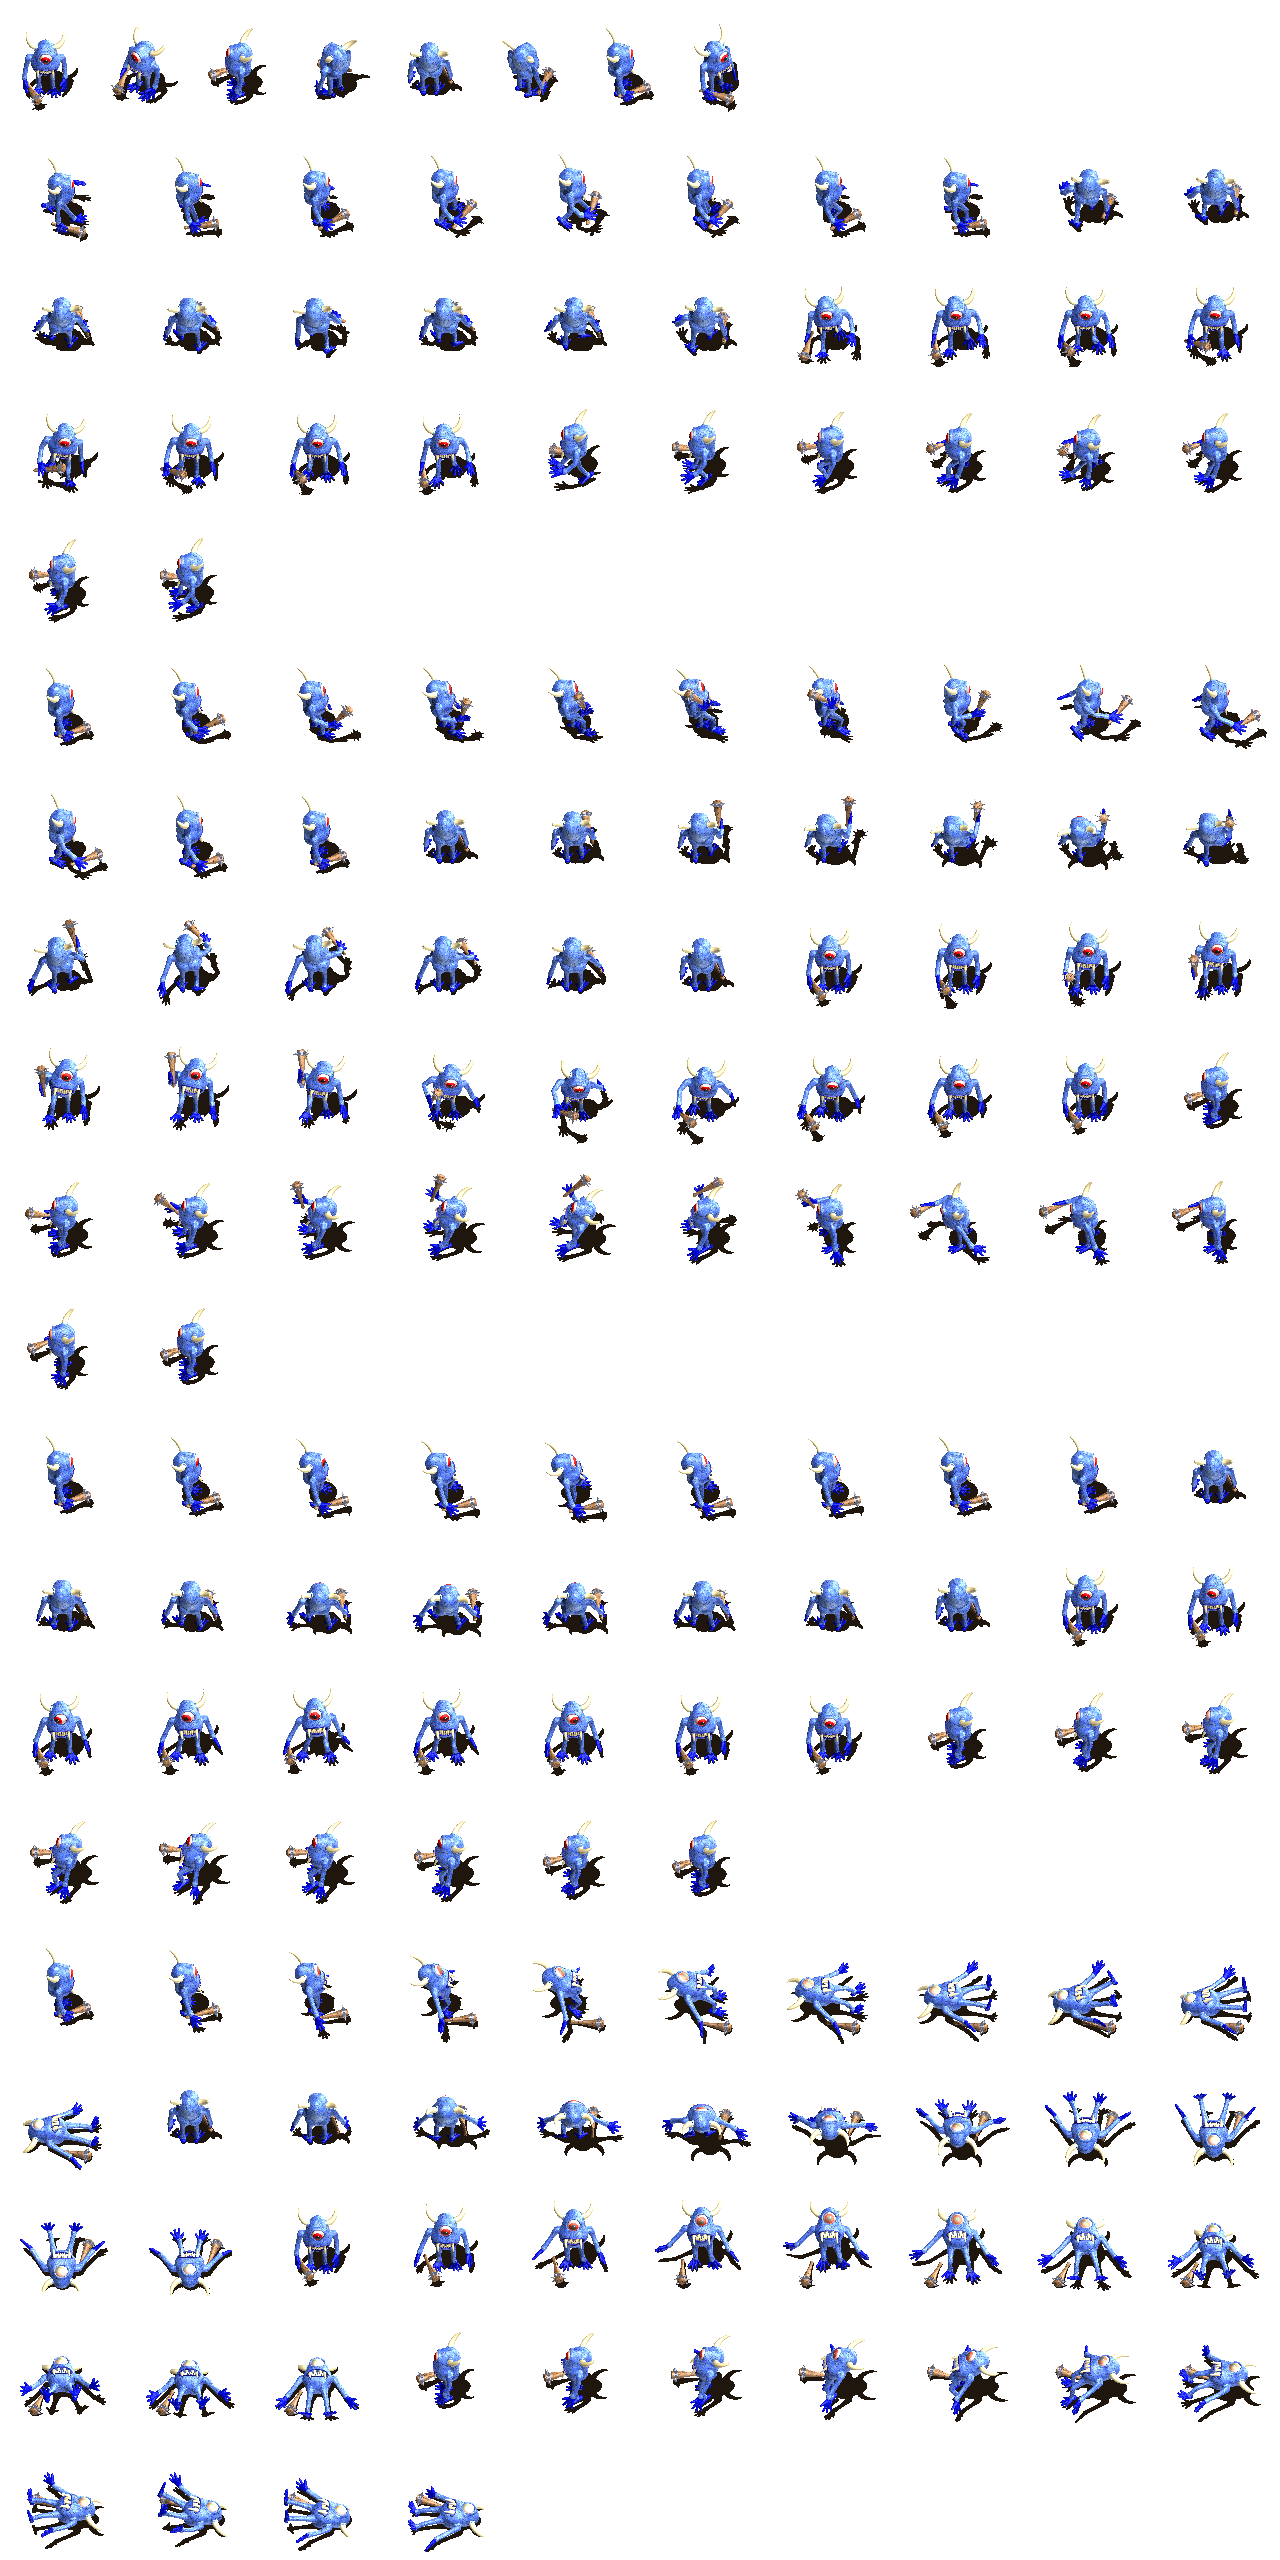
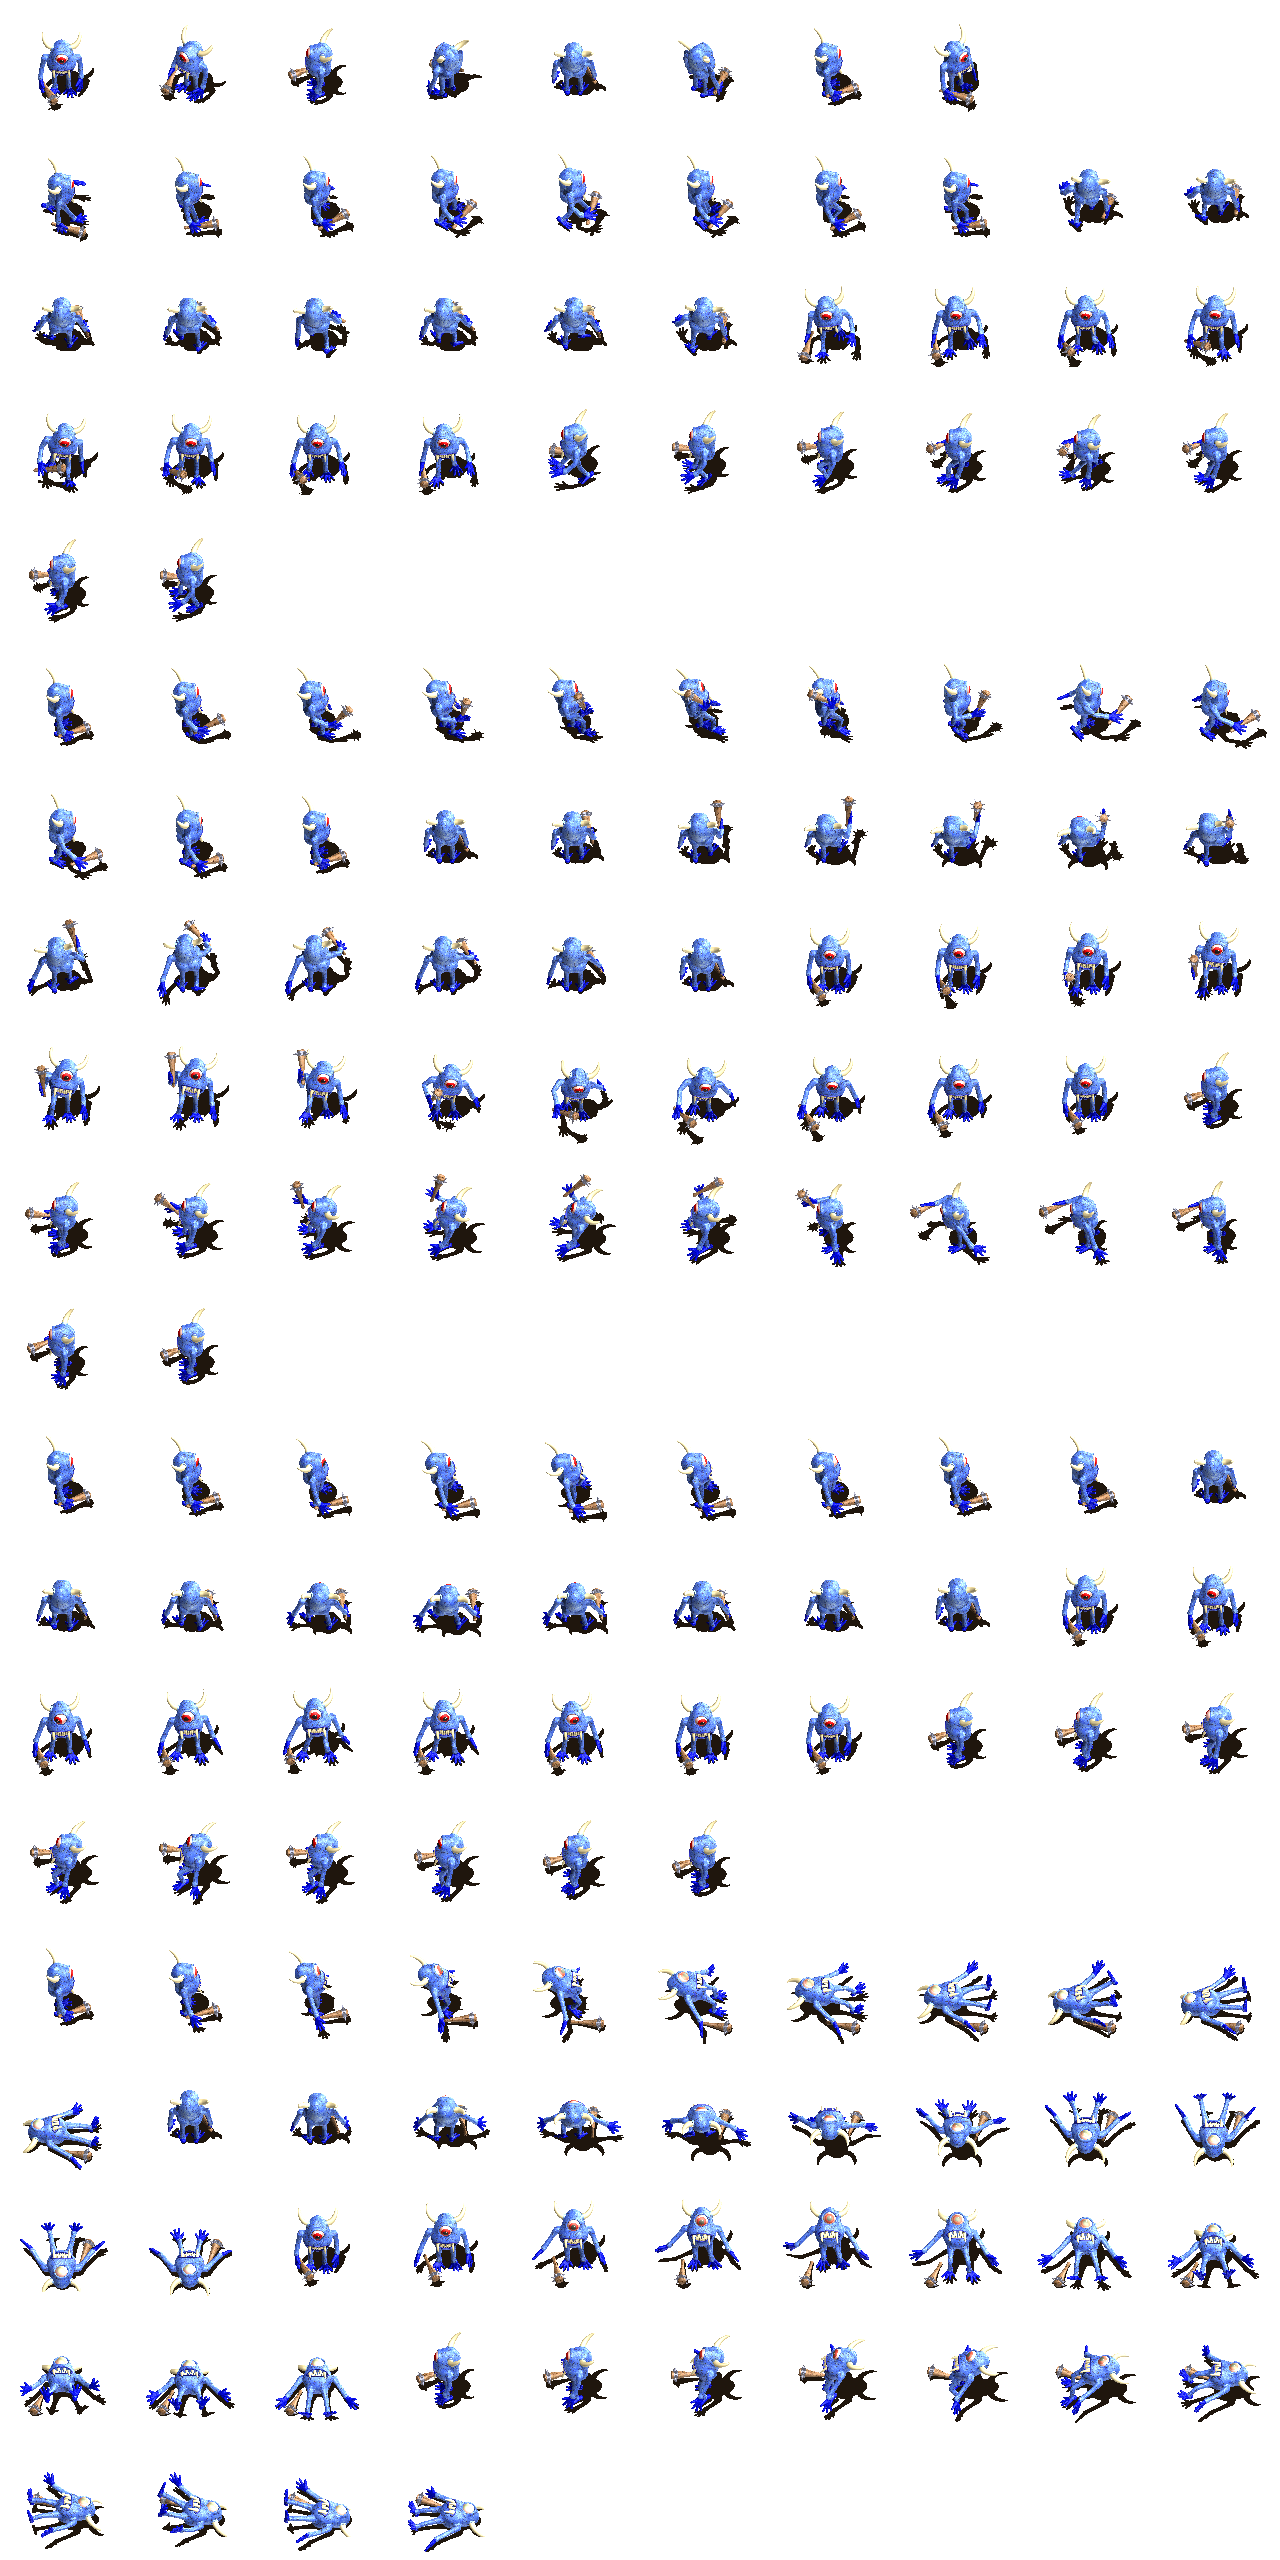
fix(assets): fix hornedoneye stopped state frame alignment and cell bleeding
- Re-align hornedoneye stoppedImageMap.png into 1280x128 uniform 128x128 cells with 16px margins, matching walking and combat action geometry
- Update hornedoneyeStoppedImageMap.asset.taml CellWidth/CellHeight to 128x128, preventing adjacent frame bleeding in South/West/North cells and restoring missing East frame
- Update tools/generate_faction_assets.py to configure hornedoneye uniformly as 128x128
- Re-synthesize hornedoneye imagemap.png and manifests
- Add regression test test_hornedoneye_spritesheet_combination_no_stopped_bleed in tests/test_combine_imagemaps.py

diff --git a/tests/test_combine_imagemaps.py b/tests/test_combine_imagemaps.py
@@ -150,6 +150,45 @@ class TestCombineImageMaps(unittest.TestCase):
         self.assertEqual(result["total_frames"], 170)
         self.assertEqual(result["verification"]["status"], "PASSED")
 
+    def test_hornedoneye_spritesheet_combination_no_stopped_bleed(self):
+        """Verify hornedoneye sprite maps combination and that stopped state cells do not bleed adjacent units."""
+        result = combine_sprite_sheets(
+            input_dir=str(PROJECT_ROOT / "Archon/data/images/hornedoneye"),
+            output_dir=str(self.temp_path),
+            output_filename="imagemap_hornedoneye.png",
+            manifest_json_filename="imagemap_hornedoneye.json",
+            manifest_txt_filename="imagemap_hornedoneye.txt",
+            creature_name="hornedoneye"
+        )
+        self.assertEqual(result["dimensions"], (1280, 2560))
+        self.assertEqual(result["grid"], (10, 20))
+        self.assertEqual(result["cell_size"], (128, 128))
+        self.assertEqual(result["total_frames"], 200)
+        self.assertEqual(result["verification"]["status"], "PASSED")
+
+        # Verify that each directional frame (0: South, 2: West, 4: North, 6: East)
+        # in the stopped row has no adjacent unit bleed (exactly 1 horizontal span of pixels)
+        combined_img = Image.open(self.temp_path / "imagemap_hornedoneye.png")
+        for frame_idx in [0, 2, 4, 6]:
+            cell = combined_img.crop((frame_idx * 128, 0, (frame_idx + 1) * 128, 128))
+            alpha = cell.split()[-1]
+            x_has_pixels = [any(alpha.getpixel((x, y)) > 0 for y in range(cell.height)) for x in range(cell.width)]
+            spans = []
+            in_span = False
+            start = 0
+            for x, has in enumerate(x_has_pixels):
+                if has and not in_span:
+                    in_span = True
+                    start = x
+                elif not has and in_span:
+                    in_span = False
+                    spans.append((start, x - 1))
+            if in_span:
+                spans.append((start, cell.width - 1))
+            self.assertEqual(len(spans), 1, f"Frame {frame_idx} has bleeding spans: {spans}")
+            self.assertGreaterEqual(spans[0][0], 20, f"Frame {frame_idx} left margin too small: {spans[0][0]}")
+            self.assertLessEqual(spans[0][1], 108, f"Frame {frame_idx} right margin too small: {spans[0][1]}")
+
     def test_all_16_creatures_verification(self):
         """Verify that all 16 creature folders have valid compiled imagemap.png and manifests."""
         base_dir = PROJECT_ROOT / "Archon/data/images"

diff --git a/tools/generate_faction_assets.py b/tools/generate_faction_assets.py
@@ -19,7 +19,7 @@ CREATURE_SPECS = [
     {"name": "golddragon", "cw": 128, "ch": 128},
     # Gremlin Faction
     {"name": "gremlin", "cw": 96, "ch": 96},
-    {"name": "hornedoneye", "cw": 128, "ch": 128, "stopped_ch": 96},
+    {"name": "hornedoneye", "cw": 128, "ch": 128},
     {"name": "mistress", "cw": 96, "ch": 96, "tipping_cw": 128, "tipping_ch": 128},
     {"name": "demon", "cw": 96, "ch": 96}
 ]
@@ -62,8 +62,11 @@ def generate_assets():
             # Determine cell size for this image
             cw = default_cw
             ch = default_ch
-            if act_key == "Stopped" and "stopped_ch" in spec:
-                ch = spec["stopped_ch"]
+            if act_key == "Stopped":
+                if "stopped_cw" in spec:
+                    cw = spec["stopped_cw"]
+                if "stopped_ch" in spec:
+                    ch = spec["stopped_ch"]
             elif act_key == "TippingOver" and "tipping_cw" in spec:
                 cw = spec["tipping_cw"]
                 ch = spec["tipping_ch"]
